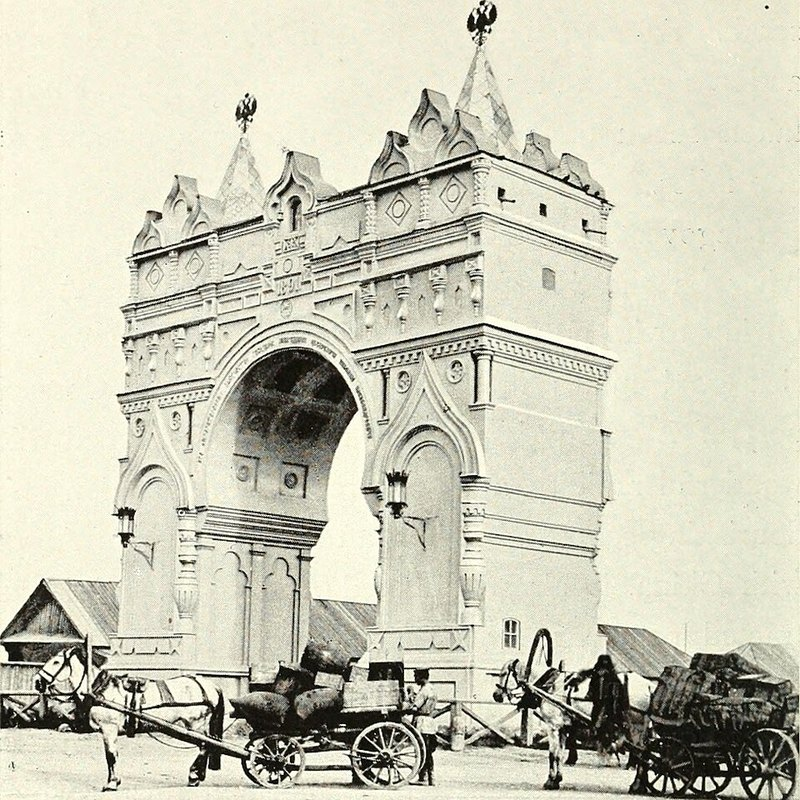
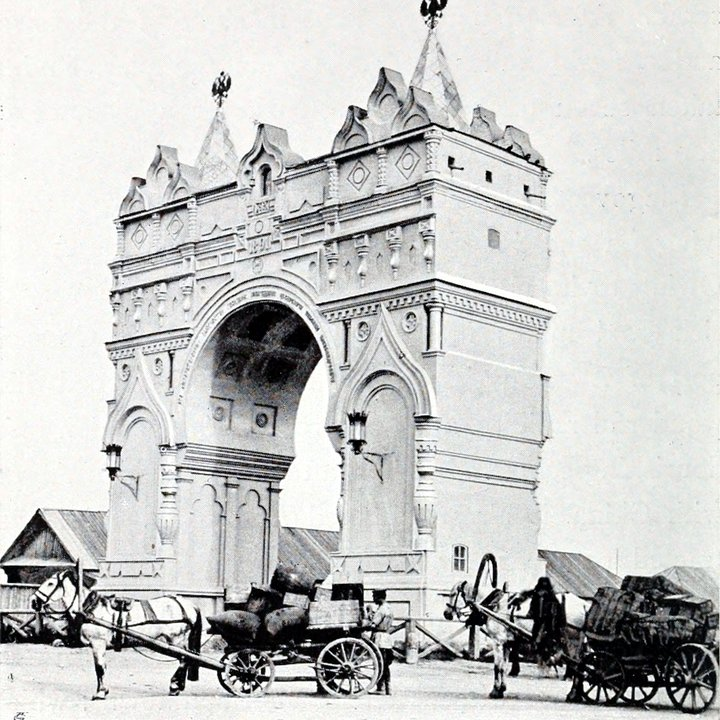
Слайдер «до/после»: арка 1904 года против сегодняшней (фото добавлены, код ожил)

diff --git a/index.html b/index.html
@@ -1112,15 +1112,15 @@ footer{background:var(--ink);color:#fff;padding:5rem 0 3rem;margin-top:2rem}
       <h3 class="ba-h">Та же арка — сто двадцать лет спустя</h3>
       <p class="ba-sub">Потяните ползунок. Слева — Триумфальная арка на снимке 1904 года, справа — она же в наши дни. Оригинал 1891 года не пережил XX век: нынешнюю арку восстановили в 2005-м по старым фотографиям.</p>
       <div class="ba" id="ba">
-        <img src="assets/arch-today.jpg" alt="Триумфальная арка в Благовещенске в наши дни" loading="lazy" width="800" height="800">
-        <div class="ba-top"><img src="assets/arch-1904.jpg" alt="Триумфальная арка на фотографии 1904 года" loading="lazy" width="800" height="800"></div>
+        <img src="assets/arch-today.jpg" alt="Триумфальная арка в Благовещенске в наши дни" loading="lazy" width="720" height="720">
+        <div class="ba-top"><img src="assets/arch-1904.jpg" alt="Триумфальная арка на фотографии 1904 года" loading="lazy" width="720" height="720"></div>
         <div class="ba-line"></div>
         <div class="ba-knob"><svg viewBox="0 0 24 24"><path d="M9 6l-5 6 5 6M15 6l5 6-5 6"/></svg></div>
         <span class="ba-lab l">1904</span>
         <span class="ba-lab r">наши дни</span>
         <input type="range" min="0" max="100" value="50" step="0.5" aria-label="Сравнение: арка на снимке 1904 года и в наши дни">
       </div>
-      <div class="ba-cred">Слева: фото 1904 года из книги Элима Демидова, общественное достояние. Справа: фото 2013 года, Sharon Hahn Darlin, CC BY 2.0 — обе с Wikimedia Commons. С 2013-го арка не менялась.</div>
+      <div class="ba-cred">Слева: фото 1904 года из книги Элима Демидова, общественное достояние. Справа: фото 2013 года, Sharon Hahn Darlin, CC BY 2.0 — обе с Wikimedia Commons. Нынешняя арка воссоздана в 2005 году по фотографиям оригинала.</div>
     </div>
   </div>
 </section>